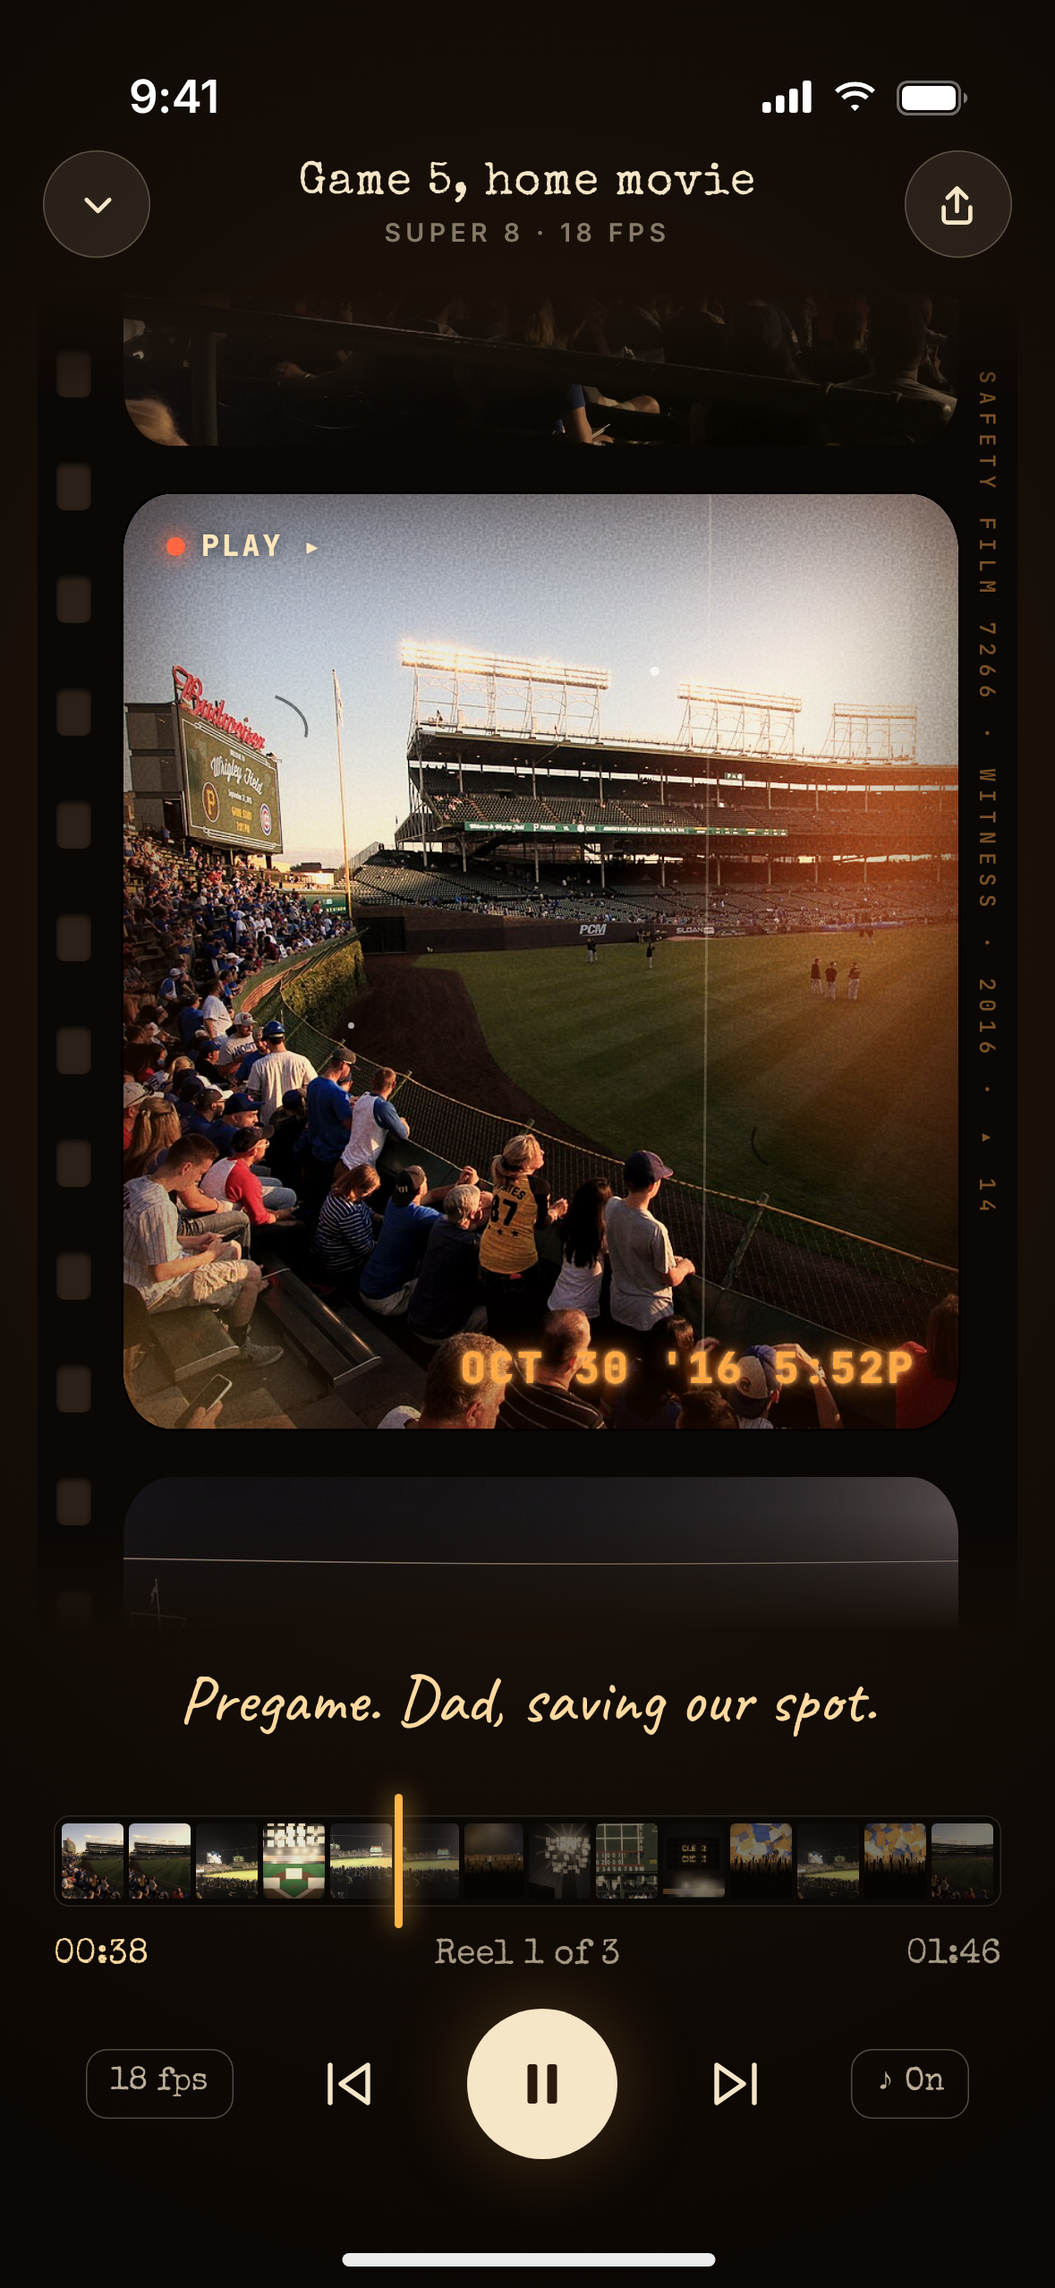
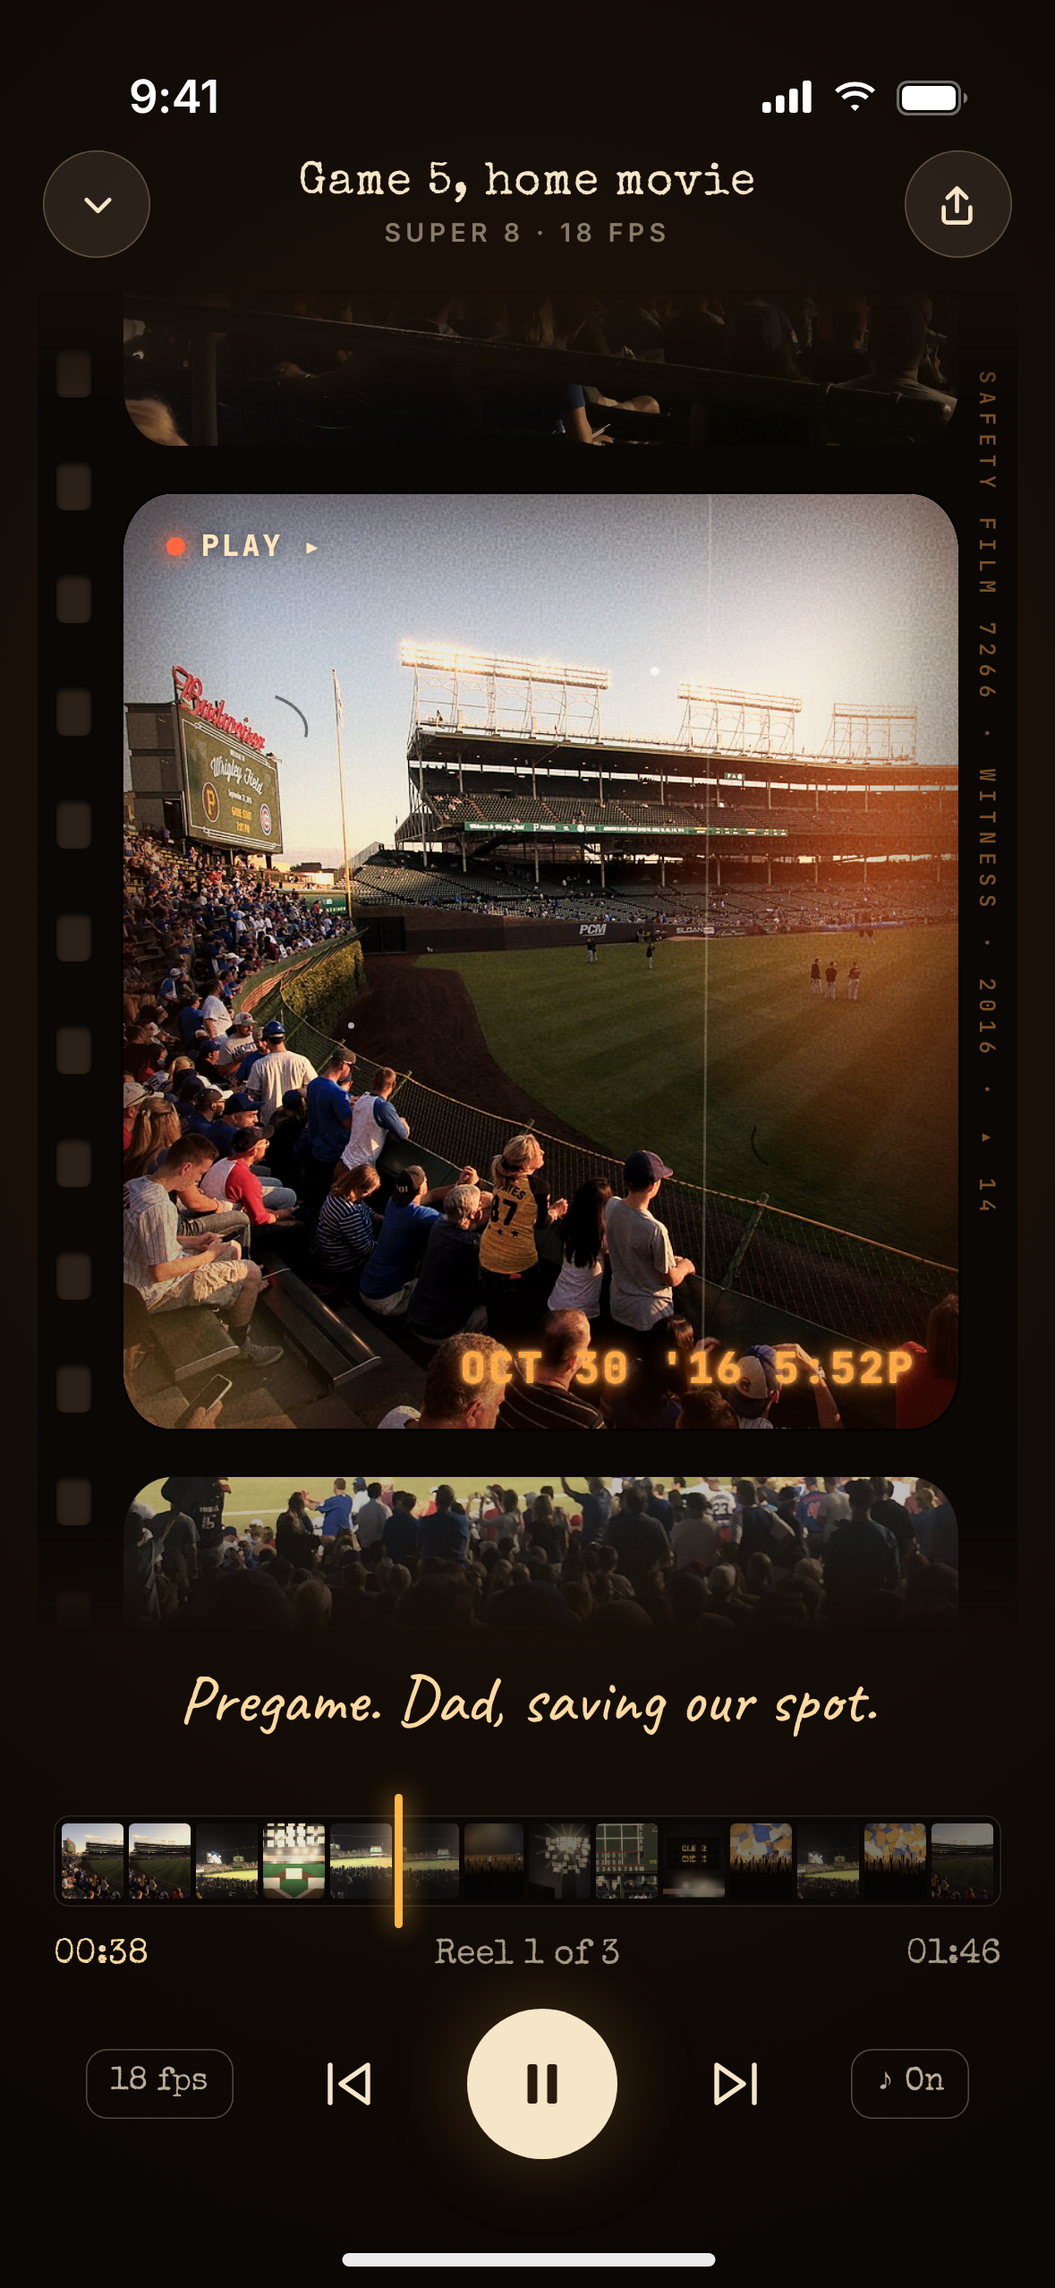
Feature mockups in progress
Claude-Session: https://claude.ai/code/session_01YKCsRGYnDsF5Pryete24Wa

Changed region(s): [[0.1221, 0.6182, 0.916, 0.7109]]

diff --git a/mockups/features/02-life-map/v2-flight-routes.html b/mockups/features/02-life-map/v2-flight-routes.html
@@ -1,0 +1,140 @@
+<!doctype html>
+<html><head><meta charset="utf-8"><title>Flight routes</title>
+<link rel="stylesheet" href="../../kit/kit.css">
+<style>
+  :root { --navy: #14254a; --red: #d8402b; --land: #e6dcc8; --sea: #f6f1e6; }
+  body.phone { background: var(--sea); color: var(--navy); }
+  .mast { position: absolute; top: 58px; left: 20px; right: 20px; }
+  .mast .row { display: flex; justify-content: space-between; align-items: center; font: 700 10px/1 var(--f-grot); letter-spacing: 2px; text-transform: uppercase; color: rgba(20,37,74,.6); }
+  .mast h1 { margin-top: 8px; font: 400 40px/.95 var(--f-black); letter-spacing: -1.4px; text-transform: uppercase; }
+  .mast h1 span { color: var(--red); }
+  .rule { margin-top: 10px; height: 5px; border-top: 2px solid var(--navy); border-bottom: .75px solid var(--navy); }
+
+  .panel { position: absolute; left: 12px; right: 12px; border-radius: 4px; overflow: hidden; background: #f2ecdf; box-shadow: inset 0 0 0 1px rgba(20,37,74,.18); }
+  .panel svg { display: block; }
+  .ptag { position: absolute; left: 10px; top: 10px; font: 700 9px/1 var(--f-grot); letter-spacing: 2px; color: var(--navy); background: var(--sea); padding: 5px 7px; box-shadow: inset 0 0 0 1px rgba(20,37,74,.25); }
+  .na { top: 160px; height: 300px; }
+  .eu { top: 470px; height: 168px; }
+
+  .legend { position: absolute; left: 20px; right: 20px; top: 654px; display: flex; gap: 16px; font: 600 10.5px/1 var(--f-ui); color: rgba(20,37,74,.75); }
+  .legend span { display: inline-flex; align-items: center; gap: 6px; }
+  .stats { position: absolute; left: 20px; right: 20px; top: 684px; display: grid; grid-template-columns: 1.25fr 1fr 1fr; border-top: 2px solid var(--navy); border-bottom: .75px solid var(--navy); }
+  .st { padding: 12px 0 12px; }
+  .st + .st { padding-left: 14px; border-left: .75px solid rgba(20,37,74,.3); }
+  .st .k { font: 700 9px/1 var(--f-grot); letter-spacing: 1.6px; text-transform: uppercase; color: rgba(20,37,74,.55); }
+  .st .v { margin-top: 6px; font: 400 26px/1 var(--f-black); letter-spacing: -.8px; }
+  .st .s { margin-top: 5px; font: 500 11px/1.2 var(--f-ui); color: rgba(20,37,74,.65); }
+  .foot { position: absolute; left: 20px; right: 20px; top: 790px; display: flex; justify-content: space-between; font: 600 10px/1 var(--f-grot); letter-spacing: 1.5px; text-transform: uppercase; color: rgba(20,37,74,.5); }
+</style></head>
+<body class="phone" data-chrome="dark">
+  <div class="paper-tex" style="opacity:.35"></div>
+  <div class="mast">
+    <div class="row"><span>Witness · In-flight</span><span>Vol. 60 · 2014–2026</span></div>
+    <h1>Route map<span>.</span></h1>
+    <div class="rule"></div>
+  </div>
+
+  <div class="panel na"><svg id="na" width="369" height="300"></svg><div class="ptag">NORTH AMERICA</div></div>
+  <div class="panel eu"><svg id="eu" width="369" height="168"></svg><div class="ptag">EUROPE</div></div>
+
+  <div class="legend">
+    <span><svg width="16" height="16"><circle cx="8" cy="8" r="6" fill="#14254a"/><circle cx="8" cy="8" r="2.5" fill="#f6f1e6"/></svg>Hub</span>
+    <span><svg width="22" height="6"><path d="M1 3H21" stroke="#d8402b" stroke-width="2" stroke-dasharray="4 3"/></svg>Route flown</span>
+    <span><svg width="22" height="6"><path d="M1 3H21" stroke="#14254a" stroke-width="1.5" stroke-dasharray="1 2.5" stroke-linecap="round"/></svg>By rail</span>
+    <span><svg width="12" height="12"><circle cx="6" cy="6" r="4" fill="#fff" stroke="#14254a" stroke-width="1.6"/></svg>Venue</span>
+  </div>
+  <div class="stats">
+    <div class="st"><div class="k">Miles flown</div><div class="v">42,900</div><div class="s">1.7× around Earth</div></div>
+    <div class="st"><div class="k">Longest</div><div class="v">ORD–BCN</div><div class="s">4,413 mi · 2020</div></div>
+    <div class="st"><div class="k">Venues</div><div class="v">21</div><div class="s">3 countries</div></div>
+  </div>
+  <div class="foot"><span>Sam Okafor · Frequent fan</span><span>60 games</span></div>
+
+<script src="../../kit/vendor/d3.min.js"></script>
+<script src="../../kit/vendor/topojson-client.min.js"></script>
+<script src="../../kit/vendor/countries-110m.js"></script>
+<script src="../../kit/vendor/land-50m.js"></script>
+<script src="../../kit/vendor/states-10m.js"></script>
+<script>
+(function(){
+  const NAVY = '#14254a', RED = '#d8402b';
+  const land = topojson.feature(__atlas['land-50m'], __atlas['land-50m'].objects.land);
+  const world = __atlas['countries-110m'];
+  const borders = topojson.mesh(world, world.objects.countries, (a, b) => a !== b);
+  const st = __atlas['states-10m'];
+  const stMesh = topojson.mesh(st, st.objects.states, (a, b) => a !== b);
+
+  function base(svg, proj, W, H, stateLines) {
+    const path = d3.geoPath(proj);
+    const s = d3.select(svg);
+    // sea hatching
+    const defs = s.append('defs');
+    const pat = defs.append('pattern').attr('id', svg.id + 'h').attr('width', 5).attr('height', 5).attr('patternUnits', 'userSpaceOnUse').attr('patternTransform', 'rotate(35)');
+    pat.append('line').attr('x1', 0).attr('y1', 0).attr('x2', 0).attr('y2', 5).attr('stroke', 'rgba(20,37,74,.06)').attr('stroke-width', 1);
+    s.append('rect').attr('width', W).attr('height', H).attr('fill', `url(#${svg.id}h)`);
+    s.append('path').attr('d', path(d3.geoGraticule().step([10, 10])())).attr('fill', 'none').attr('stroke', 'rgba(20,37,74,.08)').attr('stroke-width', .6);
+    s.append('path').attr('d', path(land)).attr('fill', '#e3d7bf').attr('stroke', 'rgba(20,37,74,.45)').attr('stroke-width', .6);
+    s.append('path').attr('d', path(borders)).attr('fill', 'none').attr('stroke', 'rgba(20,37,74,.3)').attr('stroke-width', .6);
+    if (stateLines) s.append('path').attr('d', path(stMesh)).attr('fill', 'none').attr('stroke', 'rgba(20,37,74,.13)').attr('stroke-width', .5);
+    return s;
+  }
+  function curve(s, a, b, bend, opts = {}) {
+    const mx = (a[0] + b[0]) / 2, my = (a[1] + b[1]) / 2, dx = b[0] - a[0], dy = b[1] - a[1];
+    const cx = mx - dy * bend, cy = my + dx * bend;
+    s.append('path').attr('d', `M${a[0]},${a[1]} Q${cx},${cy} ${b[0]},${b[1]}`).attr('fill', 'none')
+      .attr('stroke', opts.color || RED).attr('stroke-width', opts.w || 1.6).attr('stroke-dasharray', opts.dash || '4 3').attr('stroke-linecap', 'round').attr('opacity', opts.op || 1);
+  }
+  function venue(s, p, code, dx = 6, dy = -6, anchor = 'start', big) {
+    s.append('circle').attr('cx', p[0]).attr('cy', p[1]).attr('r', big ? 4.6 : 3.4).attr('fill', '#fff').attr('stroke', NAVY).attr('stroke-width', 1.6);
+    const t = s.append('text').attr('x', p[0] + dx).attr('y', p[1] + dy).attr('text-anchor', anchor).attr('font-family', 'Space Grotesk').attr('font-weight', 700).attr('font-size', big ? 11 : 9.5).attr('letter-spacing', .8).attr('fill', NAVY).text(code);
+    t.clone(true).lower().attr('stroke', '#f2ecdf').attr('stroke-width', 3).attr('stroke-linejoin', 'round');
+  }
+
+  // ---------- North America ----------
+  const W = 369, H = 300;
+  const NA = [
+    ['GRB', -88.062, 44.501, 6, -6], ['MKE', -87.971, 43.028, 7, 3], ['MSP', -93.278, 44.982, -6, -6, 'end'], ['MCI', -94.480, 39.051, -6, 3, 'end'],
+    ['STL', -90.193, 38.623, -5, 13, 'end'], ['CVG', -84.507, 39.097, 2, 15], ['DTW', -83.049, 42.339, 6, -5], ['PIT', -80.006, 40.447, 6, 12],
+    ['NYC', -73.926, 40.829, 6, 12], ['BOS', -71.097, 42.346, 6, -5], ['DEN', -104.994, 39.756, 0, -9, 'middle'], ['SFO', -122.389, 37.778, 6, -6],
+    ['LAX', -118.240, 34.074, 6, 10], ['AUS', -97.641, 30.133, 6, 10]
+  ];
+  const pna = d3.geoConicConformal().parallels([33, 45]).rotate([96, 0]);
+  pna.fitExtent([[22, 34], [W - 20, H - 18]], { type: 'MultiPoint', coordinates: NA.map(v => [v[1], v[2]]).concat([[-87.7, 41.9]]) });
+  const sn = base(document.getElementById('na'), pna, W, H, true);
+  const ORD = pna([-87.70, 41.92]);
+  NA.forEach(([c, lon, lat]) => { const p = pna([lon, lat]); const far = Math.hypot(p[0] - ORD[0], p[1] - ORD[1]); curve(sn, ORD, p, far > 60 ? .22 : .3); });
+  // atlantic exit
+  const exit = [W + 6, 70];
+  curve(sn, ORD, exit, -.12, { w: 2 });
+  sn.append('text').attr('x', W - 10).attr('y', 58).attr('text-anchor', 'end').attr('font-family', 'Space Grotesk').attr('font-weight', 700).attr('font-size', 9).attr('letter-spacing', 1.2).attr('fill', RED).text('TO BCN · DTM →');
+  NA.forEach(([c, lon, lat, dx, dy, an]) => venue(sn, pna([lon, lat]), c, dx, dy, an || 'start'));
+  // hub
+  sn.append('circle').attr('cx', ORD[0]).attr('cy', ORD[1]).attr('r', 9).attr('fill', NAVY);
+  sn.append('circle').attr('cx', ORD[0]).attr('cy', ORD[1]).attr('r', 3.5).attr('fill', '#f6f1e6');
+  const hl = sn.append('g').attr('transform', `translate(${ORD[0] - 8},${ORD[1] + 16})`);
+  hl.append('rect').attr('x', -50).attr('y', 0).attr('width', 64).attr('height', 30).attr('rx', 2).attr('fill', NAVY);
+  hl.append('text').attr('x', -18).attr('y', 13).attr('text-anchor', 'middle').attr('font-family', 'Archivo Black').attr('font-size', 11).attr('fill', '#fff').attr('letter-spacing', .5).text('CHICAGO');
+  hl.append('text').attr('x', -18).attr('y', 24).attr('text-anchor', 'middle').attr('font-family', 'Space Grotesk').attr('font-weight', 700).attr('font-size', 7.5).attr('fill', 'rgba(255,255,255,.7)').attr('letter-spacing', .8).text('HUB · 46 GAMES');
+
+  // ---------- Europe ----------
+  const EW = 369, EH = 168;
+  const EU = [['BCN', 2.123, 41.381], ['VLC', -0.376, 39.470], ['MAD', -3.688, 40.453], ['DTM', 7.452, 51.493]];
+  const peu = d3.geoConicConformal().parallels([38, 50]).rotate([-2, 0]);
+  peu.fitExtent([[120, 22], [EW - 60, EH - 18]], { type: 'MultiPoint', coordinates: EU.map(v => [v[1], v[2]]) });
+  const se = base(document.getElementById('eu'), peu, EW, EH, false);
+  const P = c => peu(EU.find(v => v[0] === c).slice(1));
+  const entry = [-6, 48], entry2 = [-6, 120];
+  curve(se, entry, P('DTM'), -.08, { w: 2 });
+  curve(se, entry2, P('BCN'), -.1, { w: 2 });
+  curve(se, P('BCN'), P('VLC'), .25, { color: NAVY, dash: '1 3', w: 1.6 });
+  curve(se, P('VLC'), P('MAD'), .25, { color: NAVY, dash: '1 3', w: 1.6 });
+  curve(se, P('MAD'), [-6, 150], .12, { w: 2 });
+  se.append('text').attr('x', 10).attr('y', 160).attr('font-family', 'Space Grotesk').attr('font-weight', 700).attr('font-size', 9).attr('letter-spacing', 1.2).attr('fill', RED).text('← HOME TO ORD');
+  venue(se, P('DTM'), 'DORTMUND', 7, 4, 'start', true);
+  venue(se, P('BCN'), 'BARCELONA', 7, 4, 'start', true);
+  venue(se, P('VLC'), 'VALENCIA', 7, 10, 'start');
+  venue(se, P('MAD'), 'MADRID', -8, 14, 'end', true);
+})();
+</script>
+<script src="../../kit/kit.js"></script>
+</body></html>

diff --git a/mockups/features/04-timeline/v1-magazine-feed.html b/mockups/features/04-timeline/v1-magazine-feed.html
@@ -1,0 +1,106 @@
+<!doctype html>
+<html><head><meta charset="utf-8"><title>Magazine feed</title>
+<link rel="stylesheet" href="../../kit/kit.css">
+<style>
+  body.phone { background: #0b0a09; }
+  .top { position: absolute; top: 58px; left: 20px; right: 20px; display: flex; justify-content: space-between; align-items: flex-end; }
+  .top .e { font: 600 10.5px/1 var(--f-ui); letter-spacing: 2.2px; text-transform: uppercase; color: var(--signal); }
+  .top h1 { font: 400 40px/.95 var(--f-serif); letter-spacing: -.6px; margin-top: 6px; }
+  .top h1 i { color: var(--text-2); }
+  .top .btn-circle { background: rgba(255,255,255,.08); border: .5px solid rgba(255,255,255,.12); margin-bottom: 2px; }
+
+  .years { position: absolute; top: 128px; left: 20px; right: 0; display: flex; gap: 18px; white-space: nowrap; overflow: hidden; align-items: baseline;
+    border-bottom: .5px solid rgba(255,255,255,.12); padding-bottom: 10px; }
+  .years span { font: 600 14px/1 var(--f-ui); color: var(--text-3); font-variant-numeric: tabular-nums; }
+  .years span.on { color: var(--text); position: relative; }
+  .years span.on::after { content: ""; position: absolute; left: 0; right: 0; bottom: -11px; height: 2px; background: var(--signal); }
+  .years span em { font-style: normal; font-size: 10px; color: var(--text-4); margin-left: 3px; font-weight: 600; }
+  .years span.on em { color: var(--signal); }
+
+  .card { position: absolute; left: 16px; right: 16px; border-radius: 22px; overflow: hidden; background: #111; box-shadow: 0 20px 40px rgba(0,0,0,.5); }
+  .card .shade { position: absolute; inset: 0; background: linear-gradient(180deg, rgba(0,0,0,.35) 0%, rgba(0,0,0,0) 26%, rgba(0,0,0,.08) 44%, rgba(8,6,4,.9) 82%, rgba(8,6,4,.96) 100%); }
+  .chip { position: absolute; top: 14px; left: 14px; height: 28px; padding: 0 11px; border-radius: 14px; display: flex; align-items: center; gap: 6px;
+    font: 700 10.5px/1 var(--f-ui); letter-spacing: 1.4px; text-transform: uppercase; color: #fff; }
+  .chip i { width: 6px; height: 6px; border-radius: 3px; background: var(--signal); }
+  .issue { position: absolute; top: 14px; right: 14px; font: italic 400 15px/28px var(--f-serif); color: rgba(255,255,255,.8); }
+
+  .c1 { top: 164px; height: 404px; }
+  .c1 img { position: absolute; inset: 0; }
+  .c1 .body { position: absolute; left: 20px; right: 20px; bottom: 18px; }
+  .kick { font: 700 10px/1 var(--f-ui); letter-spacing: 2px; text-transform: uppercase; color: var(--signal); }
+  .c1 h2 { font: 400 35px/1 var(--f-serif); letter-spacing: -.5px; margin: 10px 0 14px; text-wrap: balance; }
+  .c1 h2 i { color: #ffd9a0; }
+  .meta { display: flex; align-items: center; justify-content: space-between; padding-top: 12px; border-top: .5px solid rgba(255,255,255,.18); }
+  .score { display: flex; align-items: center; gap: 8px; font: 700 15px/1 var(--f-tight); font-variant-numeric: tabular-nums; }
+  .score .mono-badge { width: 24px; height: 24px; font-size: 11px; }
+  .score .dim { color: var(--text-3); }
+  .score .sep { width: 1px; height: 14px; background: rgba(255,255,255,.2); margin: 0 2px; }
+  .ppl { display: flex; align-items: center; }
+  .ppl b { width: 24px; height: 24px; border-radius: 12px; display: grid; place-items: center; font: 700 10px/1 var(--f-ui); color: #1a1010; margin-left: -6px; box-shadow: 0 0 0 2px #0b0806; }
+  .ppl span { font: 500 12px/1 var(--f-ui); color: var(--text-2); margin-left: 8px; }
+
+  .yr { position: absolute; left: 20px; right: 20px; top: 590px; display: flex; align-items: center; gap: 12px; }
+  .yr b { font: 400 30px/1 var(--f-serif); font-variant-numeric: tabular-nums; }
+  .yr i { flex: 1; height: .5px; background: rgba(255,255,255,.18); }
+  .yr span { font: 500 12px/1 var(--f-ui); color: var(--text-3); }
+
+  .c2 { top: 636px; height: 250px; }
+  .c2 img { position: absolute; inset: 0; }
+  .c2 .shade { background: linear-gradient(90deg, rgba(8,6,4,.95) 0%, rgba(8,6,4,.75) 52%, rgba(8,6,4,0) 100%); }
+  .c2 .body { position: absolute; left: 18px; top: 18px; width: 210px; }
+  .c2 h2 { font: 400 25px/1.02 var(--f-serif); letter-spacing: -.3px; margin: 9px 0 0; }
+  .c2 h2 i { color: var(--text-2); }
+
+  .tabbar { position: absolute; left: 20px; right: 20px; bottom: 28px; height: 60px; border-radius: 30px; display: flex; justify-content: space-around; align-items: center; z-index: 10;
+    background: rgba(24,22,20,.72); }
+  .tabbar span { display: grid; justify-items: center; gap: 4px; font: 600 10px/1 var(--f-ui); color: var(--text-3); }
+  .tabbar span.on { color: var(--text); }
+  .tabbar svg { width: 22px; height: 22px; stroke: currentColor; fill: none; stroke-width: 1.8; stroke-linecap: round; stroke-linejoin: round; }
+</style></head>
+<body class="phone">
+<div class="top">
+  <div><div class="e">60 games · 2014–2026</div><h1>The Archive <i>Vol. XIII</i></h1></div>
+  <div class="btn-circle"><svg viewBox="0 0 24 24"><circle cx="11" cy="11" r="6.5"/><path d="M16 16l4.5 4.5"/></svg></div>
+</div>
+<div class="years">
+  <span>2026<em>6</em></span><span class="on">2025<em>9</em></span><span>2024<em>5</em></span><span>2023<em>4</em></span><span>2022<em>3</em></span><span>2021<em>4</em></span><span>2020<em>3</em></span>
+</div>
+
+<div class="card c1">
+  <img class="ph graded" src="../../photos/lambeau-concourse.jpg">
+  <div class="shade"></div>
+  <div class="chip glass"><i></i>Jan 5 · 2025</div>
+  <div class="issue">No. 54</div>
+  <div class="body">
+    <div class="kick">Week 18 · Lambeau Field · 19°F</div>
+    <h2>Nobody breathed until the kick went up. <i>Then it was good.</i></h2>
+    <div class="meta">
+      <div class="score">
+        <span class="mono-badge" style="background:#0b162a;color:#f05a1a">CHI</span>24
+        <span class="sep"></span>
+        <span class="dim">22</span><span class="mono-badge" style="background:#203731;color:#ffb612;opacity:.85">GB</span>
+      </div>
+      <div class="ppl"><b style="background:#ff7a8a;margin-left:0">M</b><b style="background:#6fd3ff">L</b><span>with Maya &amp; Leo</span></div>
+    </div>
+  </div>
+</div>
+
+<div class="yr"><b>2023</b><i></i><span>4 games · 2 wins</span></div>
+
+<div class="card c2">
+  <img class="ph graded" src="../../photos/soldier-soccer.jpg" style="object-position: 70% 50%">
+  <div class="shade"></div>
+  <div class="body">
+    <div class="kick">Oct 4 · Soldier Field</div>
+    <h2>62,000 came for one man. <i>He didn’t play.</i></h2>
+  </div>
+</div>
+
+<div class="tabbar glass">
+  <span class="on"><svg viewBox="0 0 24 24"><path d="M4 6h16M4 12h16M4 18h10"/></svg>Timeline</span>
+  <span><svg viewBox="0 0 24 24"><circle cx="12" cy="12" r="9"/><path d="M3 12h18M12 3c3 3 3 15 0 18M12 3c-3 3-3 15 0 18"/></svg>Map</span>
+  <span><svg viewBox="0 0 24 24"><rect x="5" y="3" width="14" height="18" rx="2"/><circle cx="12" cy="10" r="3"/><path d="M9 16h6"/></svg>Passport</span>
+  <span><svg viewBox="0 0 24 24"><circle cx="12" cy="8" r="4"/><path d="M4 21c1-4 4-6 8-6s7 2 8 6"/></svg>You</span>
+</div>
+<script src="../../kit/kit.js"></script>
+</body></html>

diff --git a/mockups/png/04-timeline/_sheet.html b/mockups/png/04-timeline/_sheet.html
@@ -1,0 +1,12 @@
+<html><head><link rel="stylesheet" href="file:///home/user/SportsApp/mockups/kit/kit.css"><style>
+      html,body{width:auto;height:auto;overflow:visible;background:#0b0b0d;color:#f5f1ea;font-family:Inter,sans-serif}
+      body{padding:64px 72px 72px}
+      h1{font:400 64px/1 'Instrument Serif',serif;letter-spacing:-1px;margin-bottom:10px}
+      p{font:500 18px/1.4 Inter;color:rgba(245,241,234,.55);margin-bottom:40px;max-width:1400px}
+      .row{display:flex;gap:36px}
+      figure{width:393px}
+      img{width:393px;height:852px;border-radius:44px;display:block;box-shadow:0 0 0 1px rgba(255,255,255,.1),0 30px 60px rgba(0,0,0,.6)}
+      figcaption{margin-top:18px;font:500 17px/1.3 Inter;color:rgba(245,241,234,.8)}
+      figcaption b{color:#ffb547;margin-right:6px}
+    </style></head><body><h1>04 · Timeline of memories</h1><p>Sixty games across 2014 to 2026, from Wrigley to the Bernabéu, as one scrollable life in the stands. Five directions for the same chronology.</p><div class="row">
+      <figure><img src="file:///home/user/SportsApp/mockups/png/04-timeline/v1-magazine-feed.png"><figcaption><b>01</b> Magazine feed</figcaption></figure></div></body></html>

diff --git a/mockups/features/07-recap-film/v3-super-8.html b/mockups/features/07-recap-film/v3-super-8.html
@@ -63,7 +63,7 @@
       <div class="stamp">OCT 30 '16 5:52P</div>
       <div class="grain gr"></div>
     </div>
-    <div class="fr next"><img class="ph" src="../../photos/wrigley-night.jpg" style="object-position:40% 85%"></div>
+    <div class="fr next"><img class="ph" src="../../photos/wrigley-night.jpg" style="height:200%;transform:translateY(-58%);object-position:40% 50%"></div>
   </div>
 
   <div class="cap">Pregame. Dad, saving our spot.</div>
